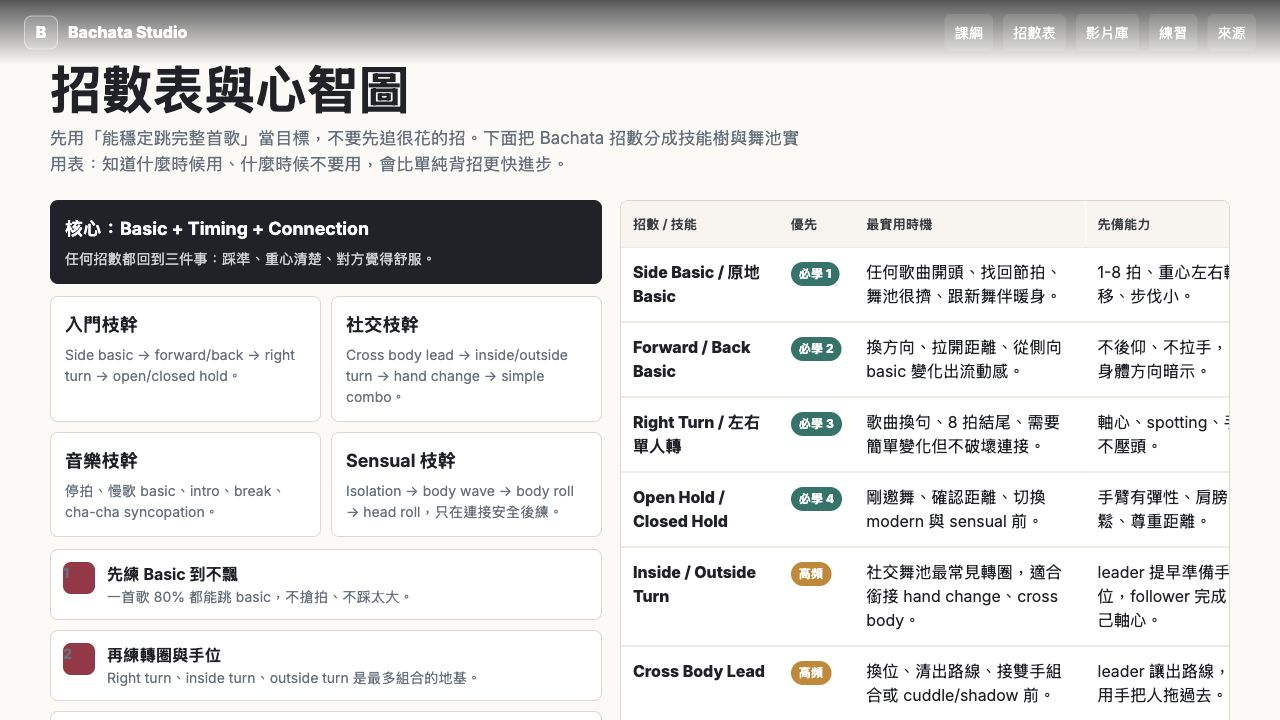
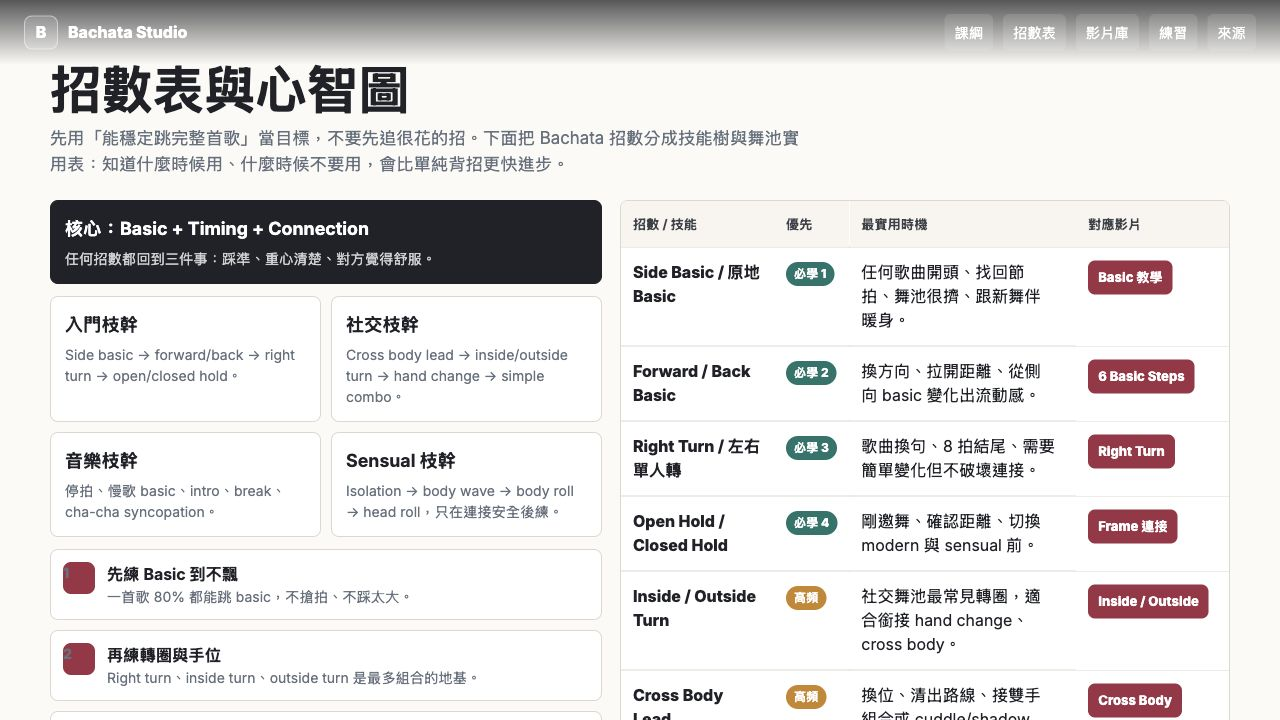
Link Bachata moves to lesson videos

Changed region(s): [[0.5, 0.3667, 0.9688, 1.0], [0.8438, 0.3056, 0.9688, 0.4278], [0.5938, 0.3056, 0.75, 0.3361]]

diff --git a/index.html b/index.html
@@ -343,6 +343,20 @@
       font-weight: 820;
     }
 
+    .move-table th:last-child,
+    .move-table td:last-child {
+      position: sticky;
+      right: 0;
+      z-index: 2;
+      background: #fff;
+      box-shadow: -10px 0 18px rgba(31, 34, 40, .08);
+    }
+
+    .move-table th:last-child {
+      z-index: 3;
+      background: #f8f5ef;
+    }
+
     .pill {
       display: inline-flex;
       align-items: center;
@@ -360,6 +374,25 @@
     .pill.blue { background: var(--blue); }
     .pill.wine { background: var(--wine); }
     .pill.dark { background: var(--ink); }
+
+    .lesson-link {
+      display: inline-flex;
+      align-items: center;
+      justify-content: center;
+      min-height: 34px;
+      padding: 7px 10px;
+      border-radius: 7px;
+      color: #fff;
+      background: var(--wine);
+      text-decoration: none;
+      font-size: 13px;
+      font-weight: 820;
+      white-space: nowrap;
+    }
+
+    .lesson-link.alt {
+      background: var(--teal);
+    }
 
     .path-card,
     .video-card,
@@ -811,7 +844,7 @@
                     <th>最實用時機</th>
                     <th>先備能力</th>
                     <th>不要用在</th>
-                    <th>對應影片分類</th>
+                    <th>對應影片</th>
                   </tr>
                 </thead>
                 <tbody>
@@ -821,7 +854,7 @@
                     <td>任何歌曲開頭、找回節拍、舞池很擠、跟新舞伴暖身。</td>
                     <td>1-8 拍、重心左右轉移、步伐小。</td>
                     <td>想炫招但節拍不穩時。</td>
-                    <td>基本步、音樂性</td>
+                    <td><a class="lesson-link" href="https://www.youtube.com/watch?v=xhrdh-uFkog" target="_blank" rel="noreferrer">Basic 教學</a></td>
                   </tr>
                   <tr>
                     <td>Forward / Back Basic</td>
@@ -829,7 +862,7 @@
                     <td>換方向、拉開距離、從側向 basic 變化出流動感。</td>
                     <td>不後仰、不拉手，用身體方向暗示。</td>
                     <td>後方有人或舞池太擠。</td>
-                    <td>基本步</td>
+                    <td><a class="lesson-link" href="https://www.youtube.com/watch?v=TJGfUGUoZe0" target="_blank" rel="noreferrer">6 Basic Steps</a></td>
                   </tr>
                   <tr>
                     <td>Right Turn / 左右單人轉</td>
@@ -837,7 +870,7 @@
                     <td>歌曲換句、8 拍結尾、需要簡單變化但不破壞連接。</td>
                     <td>軸心、spotting、手不壓頭。</td>
                     <td>對方重心不穩或鞋底太黏。</td>
-                    <td>基本步、雙人</td>
+                    <td><a class="lesson-link" href="https://www.youtube.com/results?search_query=bachata+right+turn+tutorial+beginner" target="_blank" rel="noreferrer">Right Turn</a></td>
                   </tr>
                   <tr>
                     <td>Open Hold / Closed Hold</td>
@@ -845,7 +878,7 @@
                     <td>剛邀舞、確認距離、切換 modern 與 sensual 前。</td>
                     <td>手臂有彈性、肩膀放鬆、尊重距離。</td>
                     <td>對方明顯不想 close position。</td>
-                    <td>雙人</td>
+                    <td><a class="lesson-link" href="https://www.youtube.com/results?search_query=bachata+open+hold+closed+hold+frame+connection+tutorial" target="_blank" rel="noreferrer">Frame 連接</a></td>
                   </tr>
                   <tr>
                     <td>Inside / Outside Turn</td>
@@ -853,7 +886,7 @@
                     <td>社交舞池最常見轉圈，適合銜接 hand change、cross body。</td>
                     <td>leader 提早準備手位，follower 完成自己軸心。</td>
                     <td>音樂很慢但你硬轉很快。</td>
-                    <td>雙人、基本步</td>
+                    <td><a class="lesson-link" href="https://www.youtube.com/results?search_query=bachata+inside+outside+turn+tutorial" target="_blank" rel="noreferrer">Inside / Outside</a></td>
                   </tr>
                   <tr>
                     <td>Cross Body Lead</td>
@@ -861,7 +894,7 @@
                     <td>換位、清出路線、接雙手組合或 cuddle/shadow 前。</td>
                     <td>leader 讓出路線，不用手把人拖過去。</td>
                     <td>旁邊空間不足或跟舞伴還沒建立信任。</td>
-                    <td>雙人</td>
+                    <td><a class="lesson-link" href="https://www.youtube.com/results?search_query=bachata+cross+body+lead+tutorial" target="_blank" rel="noreferrer">Cross Body</a></td>
                   </tr>
                   <tr>
                     <td>Hand Change / Hammerlock</td>
@@ -869,7 +902,7 @@
                     <td>讓簡單 turn 變成組合，適合副歌前後做變化。</td>
                     <td>知道左右手路徑，手腕不扭、不卡肩。</td>
                     <td>對方手臂緊繃或肩膀活動度不足。</td>
-                    <td>雙人</td>
+                    <td><a class="lesson-link" href="https://www.youtube.com/results?search_query=bachata+hammerlock+hand+change+tutorial" target="_blank" rel="noreferrer">Hammerlock</a></td>
                   </tr>
                   <tr>
                     <td>Dominican Footwork</td>
@@ -877,7 +910,7 @@
                     <td>節奏清楚、吉他或打擊明顯、solo break 或分開跳時。</td>
                     <td>basic 很穩、腳步小、能聽到 1 和 5。</td>
                     <td>跟舞伴連接不穩時硬塞快腳。</td>
-                    <td>腳步、音樂性</td>
+                    <td><a class="lesson-link" href="https://www.youtube.com/results?search_query=dominican+bachata+footwork+tutorial" target="_blank" rel="noreferrer">Dominican 腳步</a></td>
                   </tr>
                   <tr>
                     <td>Cha-cha / Syncopation</td>
@@ -885,7 +918,7 @@
                     <td>音樂有明顯切分、想把 basic 做得更活。</td>
                     <td>能在加速腳步後回到 1 拍。</td>
                     <td>初學者舞伴還在找拍子時。</td>
-                    <td>腳步、音樂性</td>
+                    <td><a class="lesson-link" href="https://www.youtube.com/results?search_query=bachata+cha+cha+syncopation+footwork+tutorial" target="_blank" rel="noreferrer">Syncopation</a></td>
                   </tr>
                   <tr>
                     <td>Body Isolation</td>
@@ -893,7 +926,7 @@
                     <td>慢歌、close position、準備進 body wave / roll 前。</td>
                     <td>肩、胸、髖可分開控制，核心穩。</td>
                     <td>用腰硬折或讓對方承重。</td>
-                    <td>Sensual、Styling</td>
+                    <td><a class="lesson-link" href="https://www.youtube.com/results?search_query=bachata+body+isolation+tutorial" target="_blank" rel="noreferrer">Isolation</a></td>
                   </tr>
                   <tr>
                     <td>Body Wave / Body Roll</td>
@@ -901,7 +934,7 @@
                     <td>慢速旋律、明顯延展音、雙方 close connection 已清楚。</td>
                     <td>isolation、呼吸、上下身分離。</td>
                     <td>快歌、擁擠舞池、對方不熟 sensual。</td>
-                    <td>Sensual</td>
+                    <td><a class="lesson-link" href="https://www.youtube.com/results?search_query=bachata+body+wave+body+roll+tutorial" target="_blank" rel="noreferrer">Body Roll</a></td>
                   </tr>
                   <tr>
                     <td>Head Roll</td>
@@ -909,7 +942,7 @@
                     <td>只在 workshop 或熟悉舞伴中，且 follower 主動控制頸部。</td>
                     <td>身體波浪、頸部安全、清楚 cue。</td>
                     <td>陌生舞伴、酒後、頸部不舒服、舞池擁擠。</td>
-                    <td>Sensual</td>
+                    <td><a class="lesson-link" href="https://www.youtube.com/results?search_query=bachata+head+roll+tutorial+safety" target="_blank" rel="noreferrer">Head Roll</a></td>
                   </tr>
                   <tr>
                     <td>Dip / Lean</td>
@@ -917,7 +950,7 @@
                     <td>歌曲結尾、表演感段落、雙方有練過且空間足夠。</td>
                     <td>leader 支撐不是拉扯，follower 自己站穩。</td>
                     <td>社交舞池亂用、對方沒準備、背後有人。</td>
-                    <td>雙人、Sensual</td>
+                    <td><a class="lesson-link" href="https://www.youtube.com/results?search_query=bachata+dip+lean+tutorial+safety" target="_blank" rel="noreferrer">Dip / Lean</a></td>
                   </tr>
                   <tr>
                     <td>Musical Pause / Break</td>
@@ -925,7 +958,7 @@
                     <td>歌曲停頓、歌手拉長音、鼓點斷開時。</td>
                     <td>聽歌結構，能停住但不失去 frame。</td>
                     <td>為了停而停，導致下一拍回不來。</td>
-                    <td>音樂性</td>
+                    <td><a class="lesson-link" href="https://www.youtube.com/results?search_query=bachata+musicality+breaks+pauses+tutorial" target="_blank" rel="noreferrer">Musicality</a></td>
                   </tr>
                   <tr>
                     <td>Arm / Ladies / Men Styling</td>
@@ -933,7 +966,7 @@
                     <td>solo、轉圈後、basic 裡填空，讓線條更完整。</td>
                     <td>不影響 frame、不打到旁人、動作跟音樂。</td>
                     <td>手臂太大、舞池太擠、為裝飾犧牲連接。</td>
-                    <td>Styling、腳步</td>
+                    <td><a class="lesson-link" href="https://www.youtube.com/results?search_query=bachata+ladies+men+styling+tutorial+beginner" target="_blank" rel="noreferrer">Styling</a></td>
                   </tr>
                   <tr>
                     <td>Shadow / Cuddle Position</td>
@@ -941,7 +974,7 @@
                     <td>想做流動組合、body movement、或換方向時。</td>
                     <td>手位路徑清楚，距離舒服，exit 方式已熟。</td>
                     <td>不知道怎麼出來時先不要進去。</td>
-                    <td>雙人、Sensual</td>
+                    <td><a class="lesson-link" href="https://www.youtube.com/results?search_query=bachata+shadow+cuddle+position+tutorial" target="_blank" rel="noreferrer">Shadow / Cuddle</a></td>
                   </tr>
                 </tbody>
               </table>